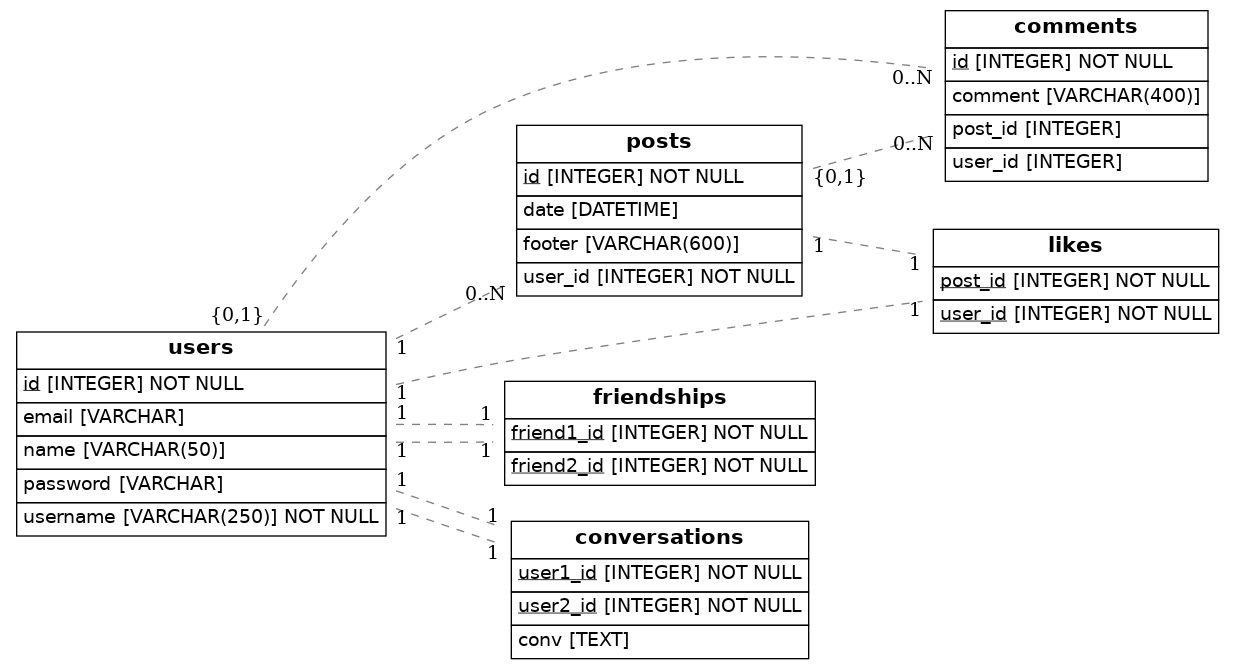
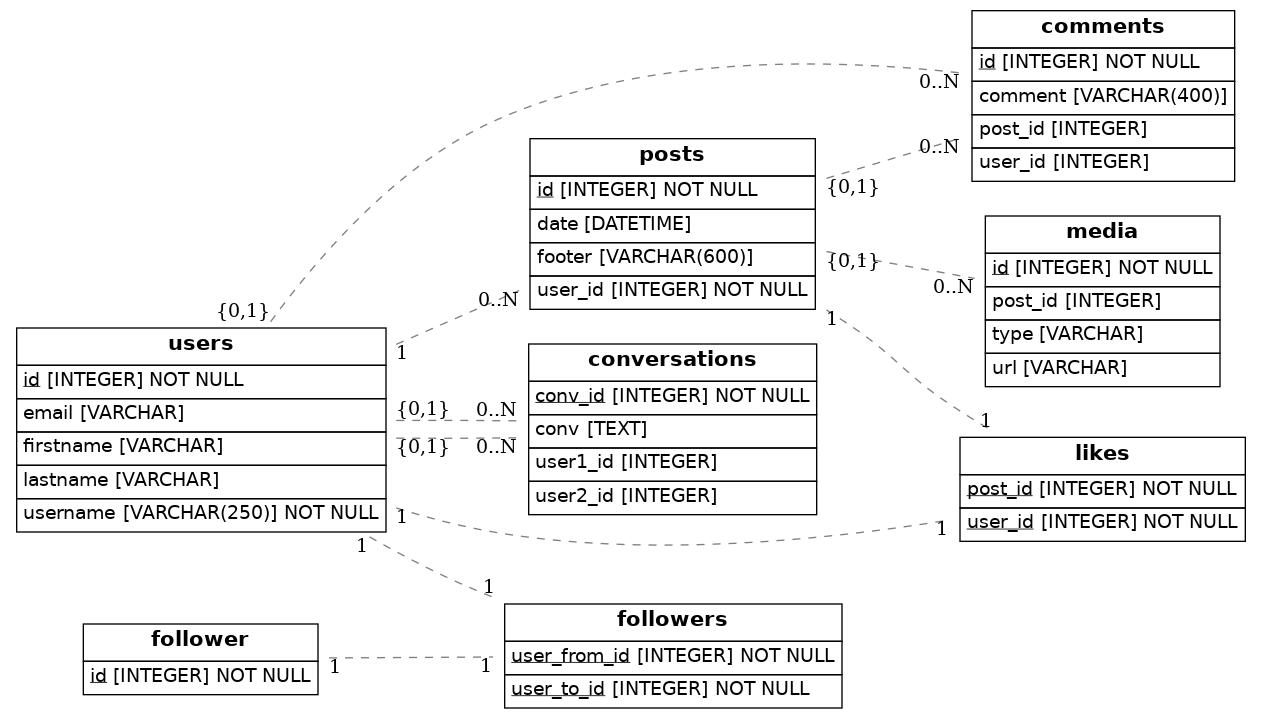
NewSolution

diff --git a/src/models.py b/src/models.py
@@ -1,26 +1,50 @@
 import os
 import sys
-from sqlalchemy import Column, ForeignKey, Integer, String, DateTime, Text
-from sqlalchemy.orm import relationship, declarative_base
+from sqlalchemy import Column, ForeignKey, Integer, String, DateTime, Text, Table, Enum
+from sqlalchemy.orm import relationship, declarative_base, backref
 from sqlalchemy import create_engine
 from eralchemy2 import render_er
 
 Base = declarative_base()
+user_conversations = Table('conversations',Base.metadata,
+                           Column('conv_id',Integer,primary_key=True),
+                           Column('user1_id',Integer,ForeignKey('users.id')),
+                           Column('user2_id',Integer,ForeignKey('users.id')),
+                           Column('conv',Text))
+
+# user_conversations = Table('conversations',Base.metadata,
+#                            Column('user1_id',Integer,ForeignKey('conversation.id'),primary_key=True),
+#                            Column('user2_id',Integer,ForeignKey('users.id'),primary_key=True),
+#                            Column('conv',Text))
+
+user_followers = Table('followers',Base.metadata,
+                      Column('user_from_id',Integer,ForeignKey('follower.id'),primary_key=True),
+                      Column('user_to_id',Integer,ForeignKey('users.id'),primary_key=True))
 
 class User(Base):
     __tablename__ = 'users'
     # Here we define columns for the table person
     # Notice that each column is also a normal Python instance attribute.
     id = Column(Integer, primary_key=True)
-    name = Column(String(50))
-    email = Column(String)
-    password = Column(String)
     username = Column(String(250), nullable=False)
+    firstname = Column(String)
+    lastname = Column(String)
+    email = Column(String)
     posts = relationship('Post',backref='users',lazy=True)
     likes  =relationship('Like',backref='users',lazy=True)
     comments = relationship('Comment',backref='users',lazy=True)
-    friends = relationship('Friend',backref='users',lazy=True)
-    conversations = relationship('Conversation',backref='users',lazy=True)
+    followers = relationship('Follower',secondary = user_followers,lazy='subquery',
+                             backref=backref('users',lazy=True))
+    # conversations = relationship('user',secondary=user_conversations,lazy='subquery',
+    #                              backref = backref('users',lazy = True))
+    Conversations = relationship('User',secondary = user_conversations,
+                                 primaryjoin = id == user_conversations.c.user1_id,
+                                 secondaryjoin = id == user_conversations.c.user2_id,
+                                 backref = backref('users',lazy = True))
+
+class Follower(Base):
+    __tablename__ = 'follower'
+    id = Column(Integer,primary_key=True)
 
 class Post(Base):
     __tablename__ = 'posts'
@@ -30,6 +54,14 @@ class Post(Base):
     footer = Column(String(600))
     likes = relationship('Like',backref='posts',lazy=True)
     comments = relationship('Comment',backref='comments',lazy=True)
+    post_media = relationship('Media',backref='post',lazy=True)
+
+class Media(Base):
+    __tablename__ = 'media'
+    id = Column(Integer,primary_key = True)
+    type = Column(Enum)
+    url = Column(String)
+    post_id = Column(Integer,ForeignKey('posts.id'))
 
 class Comment(Base):
     __tablename__ = 'comments'
@@ -43,17 +75,9 @@ class Like(Base):
     user_id = Column(Integer,ForeignKey('users.id'),primary_key=True)
     post_id = Column(Integer,ForeignKey('posts.id'),primary_key=True)
 
-class Friendship(Base):
-    __tablename__ = 'friendships'
-    # id = Column(Integer,primary_key=True)
-    friend1_id = Column(Integer,ForeignKey('users.id'),primary_key=True)
-    friend2_id = Column(Integer,ForeignKey('users.id'),primary_key=True)
-
-class Conversation(Base):
-    __tablename__ = 'conversations'
-    user1_id = Column(Integer,ForeignKey('users.id'),primary_key=True)
-    user2_id = Column(Integer,ForeignKey('users.id'),primary_key=True)
-    conv = Column(Text)
+# class Conversation(Base):
+#     __tablename__ = 'conversation'
+#     id = Column(Integer,primary_key=True)
 
 ## Draw from SQLAlchemy base
 try:
